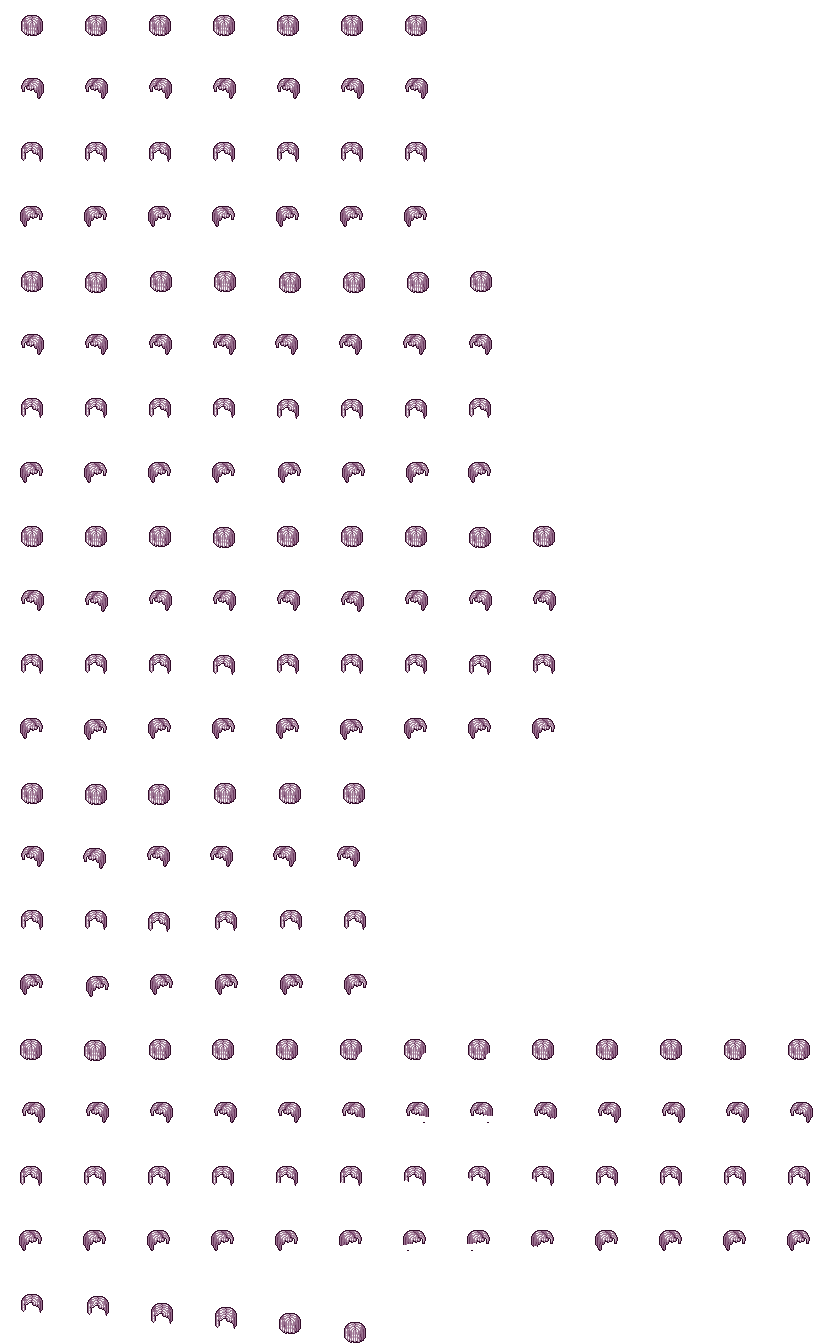
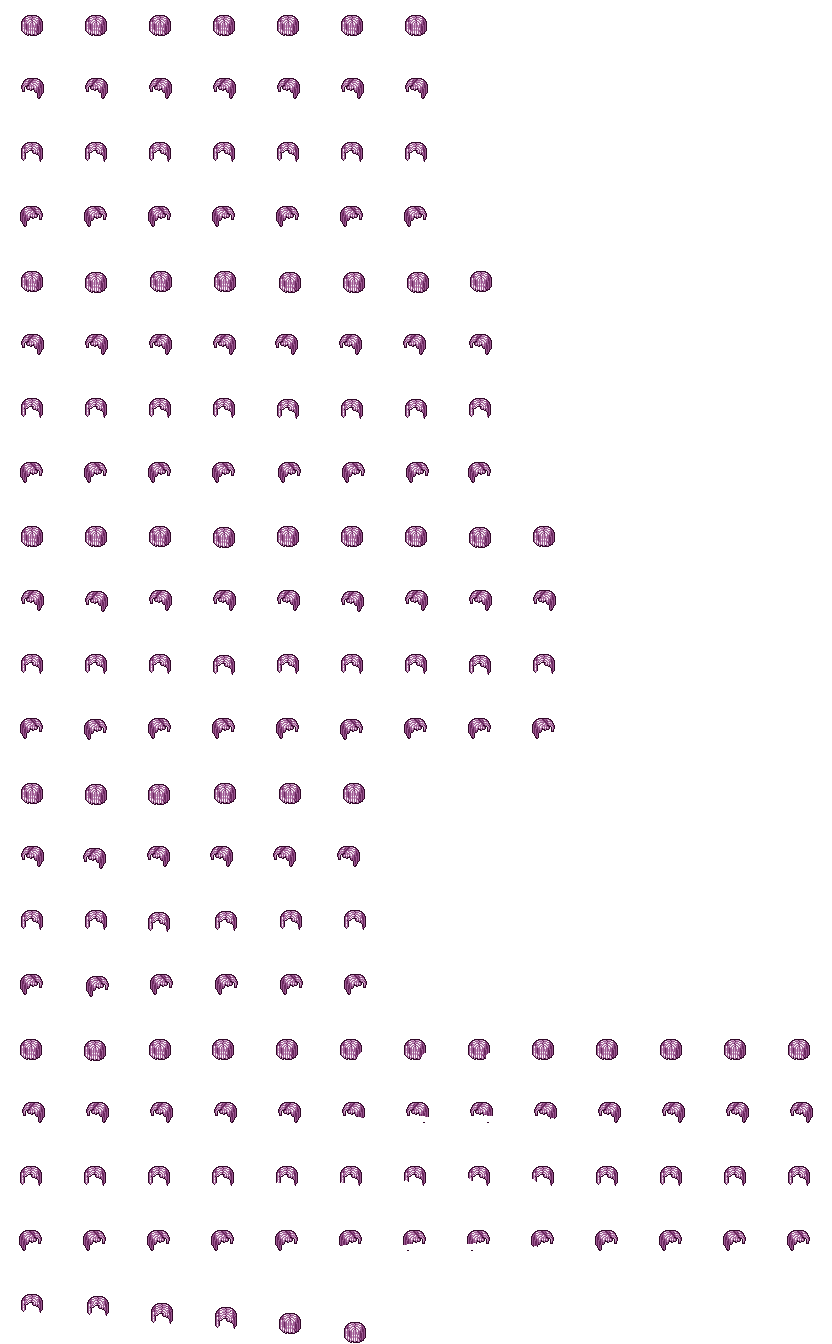
Use a consistent palette for hair base images.

diff --git a/_build/fix-palette.rb b/_build/fix-palette.rb
@@ -1,0 +1,119 @@
+PALETTES = {
+  'hair' => {
+    'ok' => ['#300727', '#6A285E', '#9C5991', '#9C59919C', '#CCA0C5', '#E8CFE4', '#FAF8F9'],
+    'map' => {
+      '#00000001' => '#00000000', # spurious near-transparent pixels
+      '#00000002' => '#00000000',
+      '#00000003' => '#00000000',
+      '#00000004' => '#00000000',
+      '#00000005' => '#00000000',
+      '#00000006' => '#00000000',
+      '#00000007' => '#00000000',
+      '#00000008' => '#00000000',
+      '#00000009' => '#00000000',
+      '#0000000A' => '#00000000',
+      '#0000000B' => '#00000000',
+      '#0000000C' => '#00000000',
+      '#0000000D' => '#00000000',
+      '#0000000E' => '#00000000',
+      '#0000000F' => '#00000000',
+      '#00000010' => '#00000000',
+      '#00000011' => '#00000000',
+      '#00000012' => '#00000000',
+      '#00000013' => '#00000000',
+      '#00000014' => '#00000000',
+      '#00000015' => '#00000000',
+      '#00000016' => '#00000000',
+      '#00000017' => '#00000000',
+      '#00000018' => '#00000000',
+      '#000000' => '#300727', # eyebrows from 'princess'
+      '#FFFFFF' => '#FAF8F9', # found in a few female hairstyles; use standard near-white instead
+      '#2F0926' => '#300727', # slightly-off color from 'longhawk'
+      # Standardize on female hair colors since they've got one extra
+      # light color (#E8CFE4) to work with. Accordingly, map the male colors
+      # (which are on a slightly different scale) to the female palette.
+      '#300A27' => '#300727',
+      '#6A385E' => '#6A285E',
+      '#9B7391' => '#9C5991',
+      '#9B73919C' => '#9C59919C',
+      '#9B73919E' => '#9C59919C', # incorrect alpha from 'shorthawk'
+      '#9B7391DA' => '#9C59919C', # incorrect alpha from one frame of 'shorthawk'
+      '#CBB5C5' => '#CCA0C5',
+      '#F9F9F9' => '#FAF8F9',
+      # Convert from green2 color scheme, for images that don't yet
+      # have a base-color image (e.g. 'plain').
+      '#01140E' => '#300727',
+      '#023E20' => '#6A285E',
+      '#027D21' => '#9C5991',
+      '#03BC1B' => '#CCA0C5',
+      '#03F103' => '#E8CFE4',
+      '#98FF75' => '#FAF8F9',
+      # Remove extra colors from 'page'
+      '#3B1332' => '#300727',
+      '#431939' => '#300727',
+      '#522548' => '#300727',
+      '#6D3B61' => '#6A285E',
+      '#7D536A' => '#6A285E',
+      '#875B7C' => '#6A285E',
+      '#8D6383' => '#6A285E',
+      '#946B8A' => '#9C5991',
+      '#A07A8E' => '#CCA0C5',
+      '#AE8DA5' => '#CCA0C5',
+      '#B496AC' => '#CCA0C5',
+      '#BB9FB3' => '#CCA0C5',
+      '#C1A7BA' => '#CCA0C5',
+      '#C7B0C1' => '#CCA0C5',
+      '#E6DEE4' => '#E8CFE4',
+      '#F2F0F2' => '#FAF8F9',
+    }
+  }
+}
+
+type = ARGV[0]
+palette = PALETTES[type]
+path = ARGV[1]
+if palette.nil? || !File.file?(path)
+  puts "Converts a PNG file to use a predefined palette, using predefined rules."
+  puts
+  puts "Usage:"
+  puts "  #{File.basename(__FILE__)} type file.png"
+  puts
+  puts "Valid values for type:"
+  puts PALETTES.keys.sort.map {|name| "  #{name}"}
+  exit 1
+end
+
+def convert(args)
+  `convert #{args.map {|arg| '"' + arg + '"'}.join(' ')}`
+end
+
+def unique_colors(args)
+  output = convert(args + ['-unique-colors', 'txt:-'])
+  output.scan(/#[0-9A-F]+/i)
+end
+
+def bad_colors(args, palette)
+  unique_colors(args) - palette['ok'] - ['#00000000']
+end
+
+if bad_colors([path], palette).empty?
+  puts "File '#{path}' already has correct colors for '#{type}'."
+  exit 0
+end
+
+args = [
+  path,
+  "-channel", "argb" # allow replacement color to replace alpha channel
+]
+palette['map'].each do |from, to|
+  args += ["-fill", to, "-opaque", from]
+end
+bad = bad_colors(args, palette)
+if bad.any?
+  puts "ERROR: The following colors are not valid, and not handled by existing rules:"
+  puts bad.map {|color| "  #{color}"}
+  exit 1
+end
+
+convert(args + ['+set', 'date:create', '+set', 'date:modify', path])
+puts "Colors fixed."
